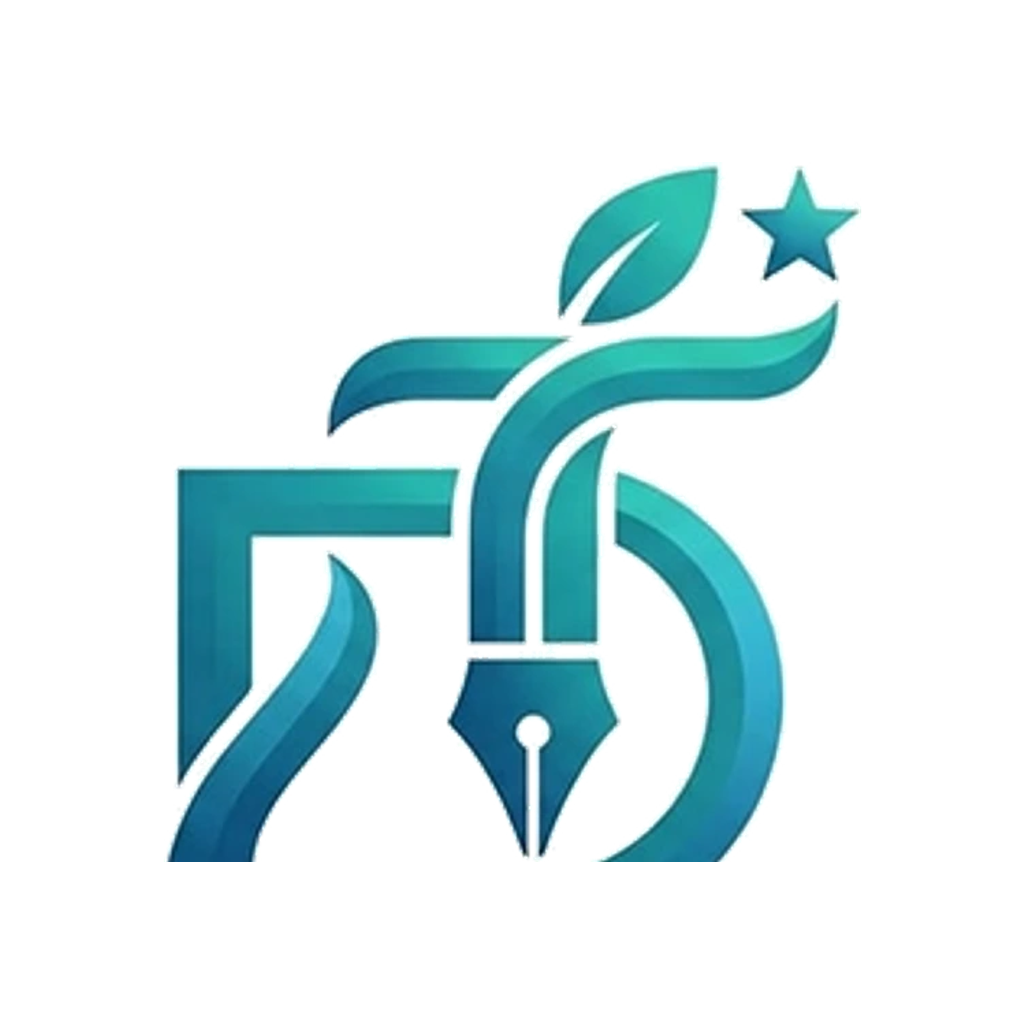
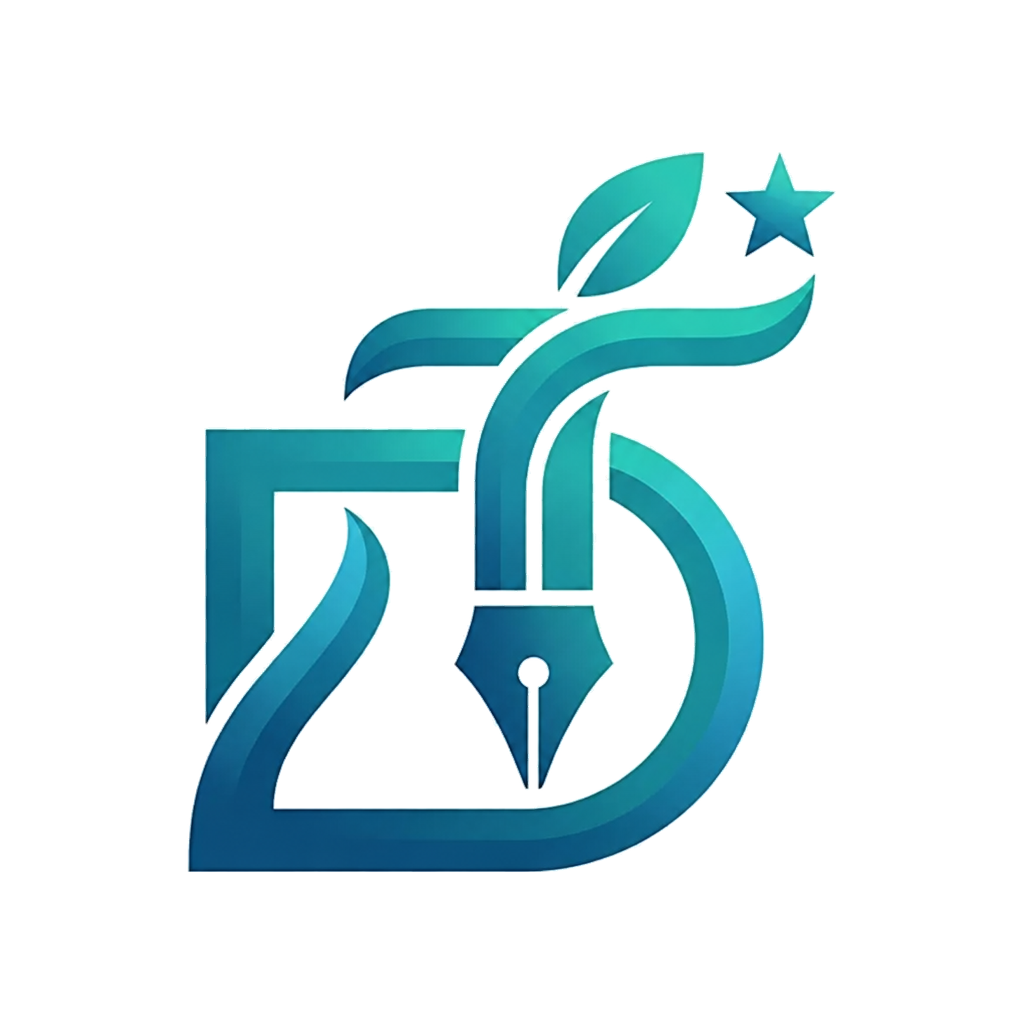
Fix brand assets: transparent mark, new splash, Android app name.
Replace cached logos, sync launcher mipmaps via rebuild script, and set native app_name to دفتر المعلم الرقمي.

Changed region(s): [[0.1562, 0.125, 0.8438, 0.875]]

diff --git a/mobile/scripts/sync-android-brand.js b/mobile/scripts/sync-android-brand.js
@@ -1,0 +1,79 @@
+/**
+ * Refresh Android launcher mipmaps + native splash from JS assets.
+ * Run from mobile/: node scripts/sync-android-brand.js
+ */
+const sharp = require("sharp");
+const fs = require("fs");
+const path = require("path");
+
+const root = path.join(__dirname, "..");
+const res = path.join(root, "android/app/src/main/res");
+
+const densities = [
+  { dir: "mipmap-mdpi", icon: 48, fg: 108, splash: 200 },
+  { dir: "mipmap-hdpi", icon: 72, fg: 162, splash: 300 },
+  { dir: "mipmap-xhdpi", icon: 96, fg: 216, splash: 400 },
+  { dir: "mipmap-xxhdpi", icon: 144, fg: 324, splash: 600 },
+  { dir: "mipmap-xxxhdpi", icon: 192, fg: 432, splash: 800 },
+];
+
+async function main() {
+  const icon = path.join(root, "assets/images/icon.png");
+  const fgSrc = path.join(root, "assets/images/android-icon-foreground.png");
+  const bgSrc = path.join(root, "assets/images/android-icon-background.png");
+  const splash = path.join(root, "assets/images/splash-logo.png");
+  const mono = path.join(root, "assets/images/android-icon-monochrome.png");
+
+  for (const d of densities) {
+    const dir = path.join(res, d.dir);
+    fs.mkdirSync(dir, { recursive: true });
+
+    await sharp(icon).resize(d.icon, d.icon).webp({ quality: 92 }).toFile(path.join(dir, "ic_launcher.webp"));
+    await sharp(icon).resize(d.icon, d.icon).webp({ quality: 92 }).toFile(path.join(dir, "ic_launcher_round.webp"));
+    await sharp(fgSrc).resize(d.fg, d.fg).webp({ quality: 92 }).toFile(path.join(dir, "ic_launcher_foreground.webp"));
+    await sharp(bgSrc).resize(d.fg, d.fg).webp({ quality: 92 }).toFile(path.join(dir, "ic_launcher_background.webp"));
+    if (fs.existsSync(mono)) {
+      await sharp(mono).resize(d.fg, d.fg).webp({ quality: 92 }).toFile(path.join(dir, "ic_launcher_monochrome.webp"));
+    }
+    console.log("mipmap", d.dir);
+  }
+
+  // Drawable splash logos
+  for (const d of densities) {
+    const dir = path.join(res, d.dir.replace("mipmap", "drawable"));
+    // also update known drawable-* folders
+  }
+  for (const [folder, w] of [
+    ["drawable-mdpi", 200],
+    ["drawable-hdpi", 300],
+    ["drawable-xhdpi", 400],
+    ["drawable-xxhdpi", 600],
+    ["drawable-xxxhdpi", 800],
+    ["drawable-nodpi", 560],
+  ]) {
+    const dir = path.join(res, folder);
+    fs.mkdirSync(dir, { recursive: true });
+    await sharp(splash).resize({ width: w, withoutEnlargement: true }).png().toFile(path.join(dir, "splashscreen_logo.png"));
+  }
+
+  // Keep strings.xml name in sync
+  const name = "دفتر المعلم الرقمي";
+  fs.writeFileSync(
+    path.join(res, "values/strings.xml"),
+    `<resources>\n  <string name="app_name">${name}</string>\n  <string name="expo_splash_screen_resize_mode" translatable="false">contain</string>\n</resources>\n`,
+    "utf8"
+  );
+
+  // Sync logo.webp from transparent mark
+  const mark = path.join(root, "assets/images/logo-mark.png");
+  if (fs.existsSync(mark)) {
+    await sharp(mark).webp({ quality: 95, alphaQuality: 100 }).toFile(path.join(root, "assets/images/logo.webp"));
+  }
+
+  console.log("done — rebuild APK to apply launcher/splash/name");
+}
+
+main().catch((e) => {
+  console.error(e);
+  process.exit(1);
+});

diff --git a/mobile/plugins/withFullBleedSplash.js b/mobile/plugins/withFullBleedSplash.js
@@ -98,8 +98,9 @@ function withFullBleedSplash(config) {
   config = withDangerousMod(config, [
     "android",
     async (cfg) => {
+      const projectRoot = cfg.modRequest.platformProjectRoot;
       const drawableDir = path.join(
-        cfg.modRequest.platformProjectRoot,
+        projectRoot,
         "app",
         "src",
         "main",
@@ -110,6 +111,24 @@ function withFullBleedSplash(config) {
       fs.writeFileSync(
         path.join(drawableDir, "splashscreen_full.xml"),
         SPLASH_FULL_XML,
+        "utf8"
+      );
+
+      // Keep launcher label in sync with Expo app name
+      const appName =
+        (cfg.name || cfg.expo?.name || "دفتر المعلم الرقمي").toString();
+      const valuesDir = path.join(
+        projectRoot,
+        "app",
+        "src",
+        "main",
+        "res",
+        "values"
+      );
+      fs.mkdirSync(valuesDir, { recursive: true });
+      fs.writeFileSync(
+        path.join(valuesDir, "strings.xml"),
+        `<resources>\n  <string name="app_name">${appName}</string>\n  <string name="expo_splash_screen_resize_mode" translatable="false">contain</string>\n</resources>\n`,
         "utf8"
       );
       return cfg;

diff --git a/mobile/scripts/optimize-assets.js b/mobile/scripts/optimize-assets.js
@@ -70,12 +70,12 @@ async function toWebp(relPng, maxEdge, quality) {
   await toWebp("assets/images/profile.png", 512, 78);
   await toWebp("assets/images/logo.png", 1024, 82);
 
-  // Native + Expo splash wordmark (same art as Home logo.webp)
-  if (fs.existsSync(path.join(root, "assets/images/logo.webp"))) {
-    await sharp(path.join(root, "assets/images/logo.webp"))
+  // Brand splash = full logo with title (do NOT derive from mark-only logo.webp)
+  if (fs.existsSync(path.join(root, "assets/images/logo-full.webp"))) {
+    await sharp(path.join(root, "assets/images/logo-full.webp"))
       .png()
       .toFile(path.join(root, "assets/images/splash-logo.png"));
-    console.log("wrote assets/images/splash-logo.png");
+    console.log("wrote assets/images/splash-logo.png from logo-full");
   }
 
   // Flat UI / launcher icons stay PNG (palette)

diff --git a/mobile/src/components/AppBackground.tsx b/mobile/src/components/AppBackground.tsx
@@ -8,14 +8,14 @@ import {
   StyleProp,
 } from "react-native";
 
-/** Launch / boot splash: full brand art (mark + title) on white. */
+/** Launch / boot splash: full brand (mark + title) on white. */
 export const SPLASH_BRAND = require("../../assets/images/logo-full.webp");
-/** In-app mark only (transparent) — Home / menus. */
-export const APP_LOGO_MARK = require("../../assets/images/logo.webp");
+/** In-app transparent mark only — Home header. */
+export const APP_LOGO_MARK = require("../../assets/images/logo-mark.png");
 export const BLUEPRINT_BG = require("../../assets/images/blueprint-bg.webp");
 export const SPLASH_LETTERBOX = "#FFFFFF";
 
-/** Launch / boot splash: home wordmark centered on white. */
+/** Launch / boot splash: full brand centered on white. */
 export function SplashBackground({
   onLoadEnd,
   style,

diff --git a/mobile/app/(tabs)/index.tsx b/mobile/app/(tabs)/index.tsx
@@ -34,7 +34,7 @@ import { rtlRow, rtlText } from "@/src/theme/rtl";
 import { useTutorProfile } from "@/src/profile/TutorProfileContext";
 import { TourAnchor } from "@/src/tour/TourAnchor";
 
-const LOGO = require("../../assets/images/logo.webp");
+const LOGO = require("../../assets/images/logo-mark.png");
 
 /** Welcome line under logo/profile: waving hand + tutor name. */
 function WelcomeRow({ name }: { name: string }) {

diff --git a/mobile/src/profile/SetupWizardScreen.tsx b/mobile/src/profile/SetupWizardScreen.tsx
@@ -32,6 +32,7 @@ import { rtlChipRow, rtlRow, rtlText } from "@/src/theme/rtl";
 
 const FALLBACK = require("../../assets/images/profile.webp");
 const BRAND_LOGO = require("../../assets/images/logo-full.webp");
+// Cache-bust note: full splash brand with Arabic + English title
 
 type Step = "profile" | "backup";
 
